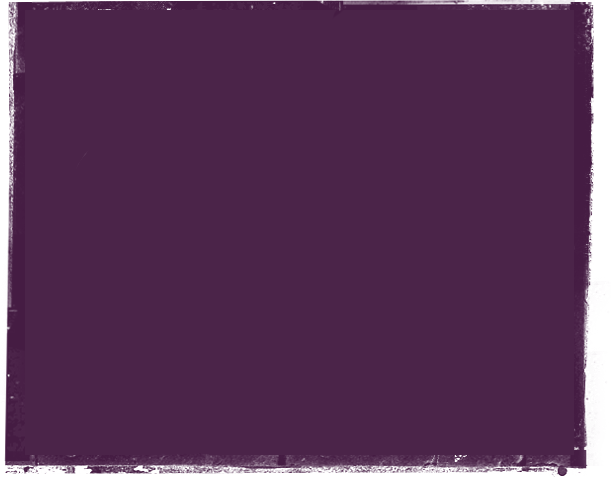
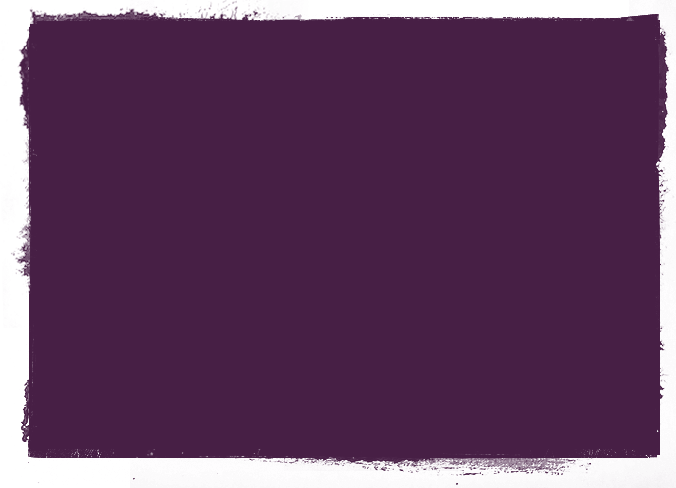
style style style. moved some stuff around and made the picture frame prettier

Changed region(s): [[0.0, 0.0, 0.9951, 0.9979]]

diff --git a/socialpakt_site/globals/static/css/styles.css b/socialpakt_site/globals/static/css/styles.css
@@ -7,8 +7,13 @@ h3 {font-size: 20px;}
 p {font-size: 14px; line-height: 1.8em;}
     
 a {color: #5A6A2B; text-decoration: none;}
-a:hover {color: #4B5B1A; text-decoration: underline;}
+a:hover {color: rgb(83, 169, 184); text-decoration: underline;}
 
+/* transitions */
+a {-webkit-transition: opacity .2s ease-in, color .2s ease-in;
+-moz-transition: opacity .2s ease-in, color .2s ease-in;
+-o-transition: opacity .2s ease-in, color .2s ease-in;
+transition: opacity .2s ease-in, color .2s ease-in;}
 
     /* TODO add browser fallbacks */
     .backgroundgradient {}
@@ -27,7 +32,7 @@ a:hover {color: #4B5B1A; text-decoration: underline;}
 
             .wrapper {margin: 0 auto; width: 960px;}
 
-#shoppingcart a {position: absolute; right: 8%; top: -8px; font-size: 12px; font-weight: bold; padding: 15px 15px; background-color: #ada0d6; box-shadow: inset 0px 0px 8px 5px rgba(0,0,0,.2); opacity: .5;}
+#shoppingcart a {position: absolute; right: 8%; top: -8px; font-size: 12px; font-weight: 600; padding: 15px 15px; background-color: #ada0d6; box-shadow: inset 0px 0px 8px 5px rgba(0,0,0,.2); opacity: .5;}
     #shoppingcart a:hover, #shoppingcart a:active {opacity: 1;}
     #shoppingcart a {color: #fff; text-decoration: none;}
         
@@ -40,12 +45,12 @@ header {margin-top: -10px;}
             
     .contestcallout {width: 300px; float: right; padding-top: 35px;}
         .contestcallout h2 {-webkit-transform: rotate(-5deg); text-transform: uppercase; color: #178a94; font-size: 30px; text-shadow: 1px 3px 2px #fff; margin: 0; padding: 0;}
-        .contestcallout p {margin: 0; padding: 0; color: #178a94; -webkit-transform: rotate(-5deg); text-align: right; margin-right: 16px; font-style: italic; font-weight: bold;}
+        .contestcallout p {margin: 0; padding: 0; color: #178a94; -webkit-transform: rotate(-5deg); text-align: right; margin-right: 16px; font-style: italic; font-weight: 600;}
         .likebutton {float: right; margin-right: 20px; border: 1px solid #fff; background-color: #eee; padding: 5px; border-radius: 5px;}
     
 
     
-#content {width: 960px; margin: 0 auto; overflow: visible; position: relative; padding-top: 60px;}
+#content {width: 980px; margin: 0 auto; overflow: visible; position: relative; padding-top: 60px;}
     #content:after {content: "."; display: block; height: 0; clear: both; visibility: hidden;}
 
 .shareit {position: absolute; left: -100px; top: 60px; width: 100px;}
@@ -53,73 +58,111 @@ header {margin-top: -10px;}
 #main {}
             
     /* TODO ask them for sizes of images and fix h/w */
-    #shirt {width: 630px; float: left; background: url(../images/pictureframe.png) no-repeat;}
-        .shirtimage.big {padding: 10px 19px;}
+    #shirt {width: 670px; float: left; background: url(../images/pictureframe.png) no-repeat -20px 0; padding: 28px 0 10px 17px;}
+
+        /* can we animate these to slide L/R w jQuery? and make the images center or whatever? */
+        .shirtimage {display: inline-block; overflow: hidden;}
+            .shirtimage.big {width: 81%;}
+            .shirtimage.thumbnail {width: 10%; margin-left: 2px; cursor: pointer; position: relative;}
+                .shirtimage.thumbnail img {opacity: .7;}
+                .shirtimage.thumbnail:hover img {opacity: 1;}
+
+                .shirtimage.thumbnail:after {position: absolute; top: 40%; left: 30%; content: "+"; display: block; color: #fff; font-size: 72px; opacity: .6; font-weight: 600; text-shadow: 1px 1px 1px #333;}
+
+                .shirtimage.thumbnail img {
+                    -webkit-transition: opacity .2s ease-in;
+                    -moz-transition: opacity .2s ease-in;
+                    -o-transition: opacity .2s ease-in;
+                    transition: opacity .2s ease-in;}
+
+
+
+            /* old style thumbnail images zzz boring */
+        /*.shirtimage.big {padding: 10px 19px;}
         .shirtimage.big img {width: 560px; height: 450px;}
 
         .shirtimage.thumbnail {display: inline-block; margin: 30px 0 0 25px; border: 3px solid #451c43; width: 85px; height: 85px; overflow: hidden;}
                 .shirtimage.thumbnail img {width: 130px; margin-left: -20px; border: 0;}
             .shirtimage.thumbnail.unselected {}
                 .shirtimage.thumbnail.unselected:hover {border-color: #9a8dcc;}
-            .shirtimage.thumbnail.selected {opacity: .25;}
+            .shirtimage.thumbnail.selected {opacity: .25;}*/
 
 
 
-    #purchase {width: 330px; float: right;}
+    #purchase {width: 250px; float: right; overflow: hidden;}
 
-        .charity {margin-left: 30px;}
-            .charity h2 {font-style: italic; font-size: 12px; margin: 0 0 10px 0; padding: 0; font-weight: normal;}
-            .charity img.logo {}
+        .charity {margin-bottom: 40px;}
+            .charity h3 {color: #991148; text-transform: uppercase; font-size: 28px; margin: 0 0 15px 0; display: none;}
+            .charity h2 {color: #999; text-transform: uppercase; font-size: 11px; margin: 0 0 5px 0; padding: 0; font-weight: normal;}
+            .charity .charity_logo {display: block; overflow: hidden; width: 280px; opacity: .8;}
+                .charity .charity_logo:hover {opacity: 1;}
+                .charity .charity_logo img {width: 100%;}
 
-        #donations {background: url(../images/donations2.png) no-repeat -25px 0; padding: 30px 20px 25px 30px;}
+
+        #donations {/*background: url(../images/donations2.png) no-repeat -45px 0; padding: 40px 0 25px 30px;*/margin-bottom: 10px;}
             #donations:after {content: "."; display: block; height: 0; clear: both; visibility: hidden;}
 
             .dollarsign {font-weight: normal;}
             #donations h3 {font-size: 12px; margin: 0; padding: 0 0 5px 0; text-transform: uppercase; font-weight: normal;}
-            #donations .number {font-size: 36px; font-weight: bold; text-shadow: 1px 1px 2px #fff; font-family: Museo;} /* TODO font family replace */
+            #donations .number {font-size: 36px; font-weight: 600; text-shadow: 1px 1px 2px #fff; font-family: Museo;} /* TODO font family replace */
 
 
-            .donation {float: left; width: 33%; border-right: 1px solid #fff;}
+            .donation {float: left; border-right: 1px solid #fff; padding-right: 10px;}
                 .donation h3 {color: #5ba33d;}
                 .donation .number {color: #31702a;}
-            .goal {float: left; width: 45%; border-left: 1px solid #b3d9da; padding-left: 27px;}
+            .goal {float: left; border-left: 1px solid #b3d9da; padding-left: 10px;}
                 .goal h3 {color: #53a9b8;}
                 .goal .number {color: #246975;}
 
-            #timeleft {clear: both; padding-top: 10px; font-size: 11px;}
+            #timeleft {clear: both; padding-top: 10px; font-size: 11px; display: none;}
                 #timeleft h3 {display: inline;}
                 #expiresdate {display: inline;}
 
-        #sizes {padding-left: 30px; margin: 20px 0;}
+        #sizes {margin: 20px 0;}
             #shirt_select {display: none;} /* hide select box of sizes */
             #sizes h3 {font-weight: normal; color: #6e356a; display: inline-block; margin-bottom: 10px;}
-                .price {font-weight: bold; color: #451c43; font-family: Museo;}
+                .price {font-weight: 600; color: #451c43; font-family: Museo;}
                 .sizeandfit {display: inline; font-size: 11px; font-style: italic; color: #999;}
                     .sizeandfit:hover {color: #666; text-decoration: none;}
             
             ul.options {list-style-type: none; margin: 0; padding: 0;}
-                .size {display: block; float: left; border: 1px solid #876e86; color: #876e86; border-radius: 5px; height: 18px; width: 38px; text-align: center; padding-top: 8px; font-weight: bold; text-transform: uppercase; margin-right: 20px; font-size: 12px;}
+                .size {display: block; float: left; border: 1px solid #876e86; color: #876e86; border-radius: 5px; height: 18px; width: 38px; text-align: center; padding-top: 8px; font-weight: 600; text-transform: uppercase; margin-right: 20px; font-size: 12px;}
                     .size:hover {background-color: #dbcdda; border-color: #7e457b; box-shadow: inset 0px 0px 15px 5px rgba(0,0,0,.2); color: #7e457b;}
                 .size.selected {background-color: #7e457b; border-color: #361034; box-shadow: inset 0px 0px 15px 5px rgba(0,0,0,.5); color: #fff;}
-                .size.unavailable, .size.unavailable:hover {background-color: #eee; border-color: #999; color: #999; opacity: .5; box-shadow: none;}
+
+                    .size {-webkit-transition: all .1s ease-in;
+                    -moz-transition: all .1s ease-in;
+                    -o-transition: all .1s ease-in;
+                    transition: all .1s ease-in;}
             
             .womens {clear: both;}
             .mens {clear: both;}
         
-        #addtocart {clear: both; padding-top: 40px; margin-left: 20px;}
-            input#cartbutton {width: 256px; height: 96px; border-radius: 10px; background-color: #178a94; box-shadow: inset 0px 0px 17px 2px rgba(28,79,84,.5); border: 1px solid #a8ddbe; background-image: url(../images/texture_button.png), -webkit-linear-gradient(top, rgba(255,255,255,0.15) 0%,rgba(0,0,0,0.15) 100%); background-position: center center; color: #fff; font-size: 30px; text-transform: uppercase; font-weight: bold; font-family: proxima-nova, Verdana, Arial, Helvetica, sans-serif;}
+        #addtocart {clear: both; padding-top: 40px;}
+            input#cartbutton {width: 240px; height: 90px; border-radius: 10px; background-color: #178a94; box-shadow: inset 0px 0px 17px 2px rgba(28,79,84,.5); border: 1px solid #a8ddbe; background-image: url(../images/texture_button.png), -webkit-linear-gradient(top, rgba(255,255,255,0.15) 0%,rgba(0,0,0,0.15) 100%); background-position: center center; color: #fff; font-size: 30px; text-transform: uppercase; font-weight: 600; font-family: proxima-nova, Verdana, Arial, Helvetica, sans-serif;}
                 input#cartbutton:hover, input#cartbutton:focus {outline: none; background-color: #ac9cd3; box-shadow: inset 0px 0px 17px 2px rgba(101,82,146,.5); border-color: #d1aad5;}
 
+                input#cartbutton {-webkit-transition: all .5s ease-in;
+                    -moz-transition: all .5s ease-in;
+                    -o-transition: all .5s ease-in;
+                    transition: all .5s ease-in;}
 
 
-#comments {clear: left; width: 590px; float: left; margin: 50px 0 0 10px; border-top: 3px solid #451c43; padding-top: 30px;}
 
 
-#about {clear: right; width: 310px; float: right;}
+#comments {clear: left; width: 630px; float: left; margin: 50px 0 0 10px; border-top: 3px solid #451c43; padding-top: 30px;}
+    #comments h3 {margin-top: 0px; color: #471f45; text-transform: uppercase; font-size: 42px; font-weight: 600; -webkit-mask-image: url(../images/mask.png);
+-o-mask-image: url(../images/mask.png);
+-moz-mask-image: url(../images/mask.png);
+mask-image: url(../images/mask.png);
+}
+
+
+#about {clear: right; width: 250px; float: right;}
     #about .label {font-size: 18px; font-style: italic; font-weight: normal; color: #53a9b8;}
-    #about h3 {font-size: 24px; margin: 5px 0 15px 0; padding: 0;}
+    #about h3 {font-size: 28px; margin: 5px 0 15px 0; padding: 0; font-weight: 600; text-transform: uppercase;}
         #about h3 a {color: #5a6a2b;}
-        #about h3 a:hover {color: #4b5b1a;}
+        #about h3 a:hover {color: rgb(83, 169, 184);}
 
     .aboutcharity {border-top: 3px solid #53a9b8; margin-top: 50px; padding-top: 30px;}
         .aboutcharity .logo {margin-bottom: 15px;}
@@ -129,17 +172,17 @@ header {margin-top: -10px;}
 
 #bottom {margin-top: 50px; padding-top: 60px;}
     #bottom:after {content: "."; display: block; height: 0; clear: both; visibility: hidden;}
-    #bottom h4, #bottom h4 a {color: #991148; text-transform: uppercase; font-size: 28px; margin: 0; font-weight: bold;}
-        #bottom h4 a:hover {color: #6e0c33;}
+    #bottom h4, #bottom h4 a {color: #991148; text-transform: uppercase; font-size: 28px; margin: 0; font-weight: 600;}
+        #bottom h4 a:hover {color: rgb(83, 169, 184);}
 
-    .contestinfo {width: 310px; float: right;}
+    .contestinfo {width: 250px; float: right;}
         .contestinfo .likebutton {float: none; width:215px;}
         
     .story {float: left; width: 600px;}
         #bottom .story h4 {font-size: 36px;}
         .video {margin-top: 30px;}
 
-    .aboutus {width: 310px; float: right;}
+    .aboutus {width: 250px; float: right;}
         .aboutus p {color: #991148; font-size: 16px; margin: 0;}
 
 /* TODO make bigger img */
@@ -149,16 +192,21 @@ header {margin-top: -10px;}
     .nav {float: left; list-style-type: none; margin: 0; padding: 0;}
         .nav li {display: block; float: left; text-transform: uppercase; font-size: 16px; margin-right: 30px; color: #fff;}
         .nav li a {color: #fff;}
-            .nav li a:hover {color: #ddd; text-decoration: none;}
+            .nav li a:hover {color: rgb(83, 169, 184); text-decoration: none;}
 
     .subnav {float: left; clear: left; list-style-type: none; margin: 0; padding: 15px 0 0 0;}
         .subnav li {display: block; float: left; color: #7c5e7a; text-transform: uppercase; font-size: 11px; font-style: italic; margin-right: 15px;}
         .subnav li a {color: #7c5e7a;}
             
-    .sociallinks {width: 310px; float: right; margin: 0; padding: 0;}
+    .sociallinks {width: 250px; float: right; margin: 0; padding: 0;}
         .sociallinks li {list-style-type: none; margin: 0 20px 0 0; padding: 0; display: block; float: left; text-indent: -9999em; height: 35px; width: 30px; opacity: .75; cursor: pointer;}
             .sociallinks li:hover {opacity: 1;}
         .sociallinks .facebook {background: url(../images/facebook.png) no-repeat;}
         .sociallinks .twitter {background: url(../images/twitter.png) no-repeat;}
         .sociallinks .youtube {background: url(../images/youtube.png) no-repeat;}
         .sociallinks .vimeo {background: url(../images/vimeo.png) no-repeat;}
+
+        .sociallinks li {-webkit-transition: opacity .2s ease-in;
+                    -moz-transition: opacity .2s ease-in;
+                    -o-transition: opacity .2s ease-in;
+                    transition: opacity .2s ease-in;}

diff --git a/socialpakt_site/catalog/templates/catalog/product.html b/socialpakt_site/catalog/templates/catalog/product.html
@@ -27,10 +27,13 @@
         </div>
 
         <div id="purchase">
-          <div class="charity">
-              <h2 class="donated">${{product.donation_amount|floatformat}} from every purchase is donated to</h2>
-              <a href="{% url nonprofit product.benefits.slug %}"><img src="{% if product.benefits.image %}{{product.benefits.image.url}}{% endif %}" alt="{{product.benefits.name}}" class="charity_logo"></a>
+
+        <div class="charity">
+            <h2 class="donated">${{product.donation_amount|floatformat}} from every purchase is donated to:</h2>
+            <h3>This Week's Charity</h3>
+              <a href="{% url nonprofit product.benefits.slug %}" class="charity_logo"><img src="{% if product.benefits.image %}{{product.benefits.image.url}}{% endif %}" alt="{{product.benefits.name}}"></a>
           </div>
+
 
           <div id="donations">
               <div class="donation">
@@ -41,11 +44,11 @@
                   <h3>our goal</h3>
                   <div class="number"><span class="dollarsign">$</span>{{product.goal|floatformat}}</div>
               </div>
-              <div id="timeleft">
-                  <h3>time left:</h3>
-                  <div id='expiresdate'>{{product.date_expires|date:"Y-m-d H:i:s"}}</div>
-              </div>
           </div>
+
+
+
+
           
           {% if can_add_to_cart %}
           <form action="https://socialpakt.foxycart.com/cart" method="post">
@@ -88,6 +91,12 @@
 
           </form>
 
+                      <div id="timeleft">
+                <h3>time left:</h3>
+                <div id='expiresdate'>{{product.date_expires|date:"Y-m-d H:i:s"}}</div>
+            </div>
+
+
           
           {% endif %}
         </div>
@@ -95,6 +104,7 @@
 {% endblock main %}
 
 {% block fbcomments %}
+<h3>What People Are Saying</h3>
   <fb:comments href="http://{{ request.get_host }}/shirt/{{product.slug}}/" num_posts="5" width="600"></fb:comments>
 {% endblock fbcomments %}
 
